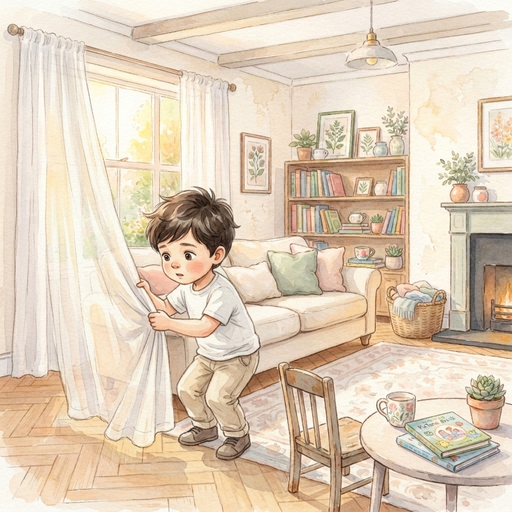
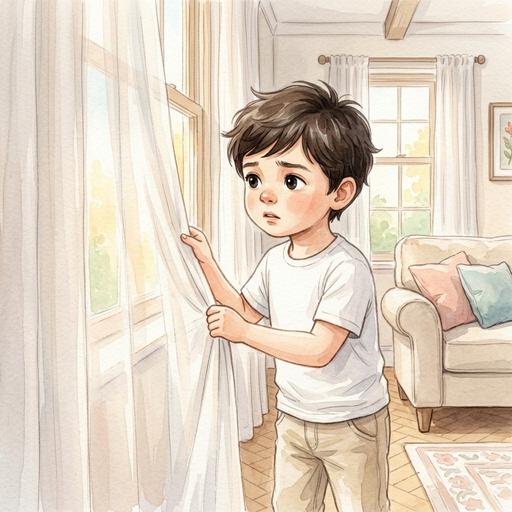
removing style anchor from database

diff --git a/helpers/illustrate_artworks.py b/helpers/illustrate_artworks.py
@@ -1,4 +1,4 @@
-"""Generate concept and style reference artworks for a storybook."""
+"""Generate concept reference artworks for a storybook."""
 
 from __future__ import annotations
 
@@ -20,15 +20,12 @@ from librito.logging import add_logging_arguments, configure_logging
 from librito.models import Concept, Storybook
 from librito.prompt_builder import (
     build_concept_artwork_prompt,
-    build_style_artwork_prompt,
     resolve_concept_artwork_constraints,
 )
 from librito.providers import build_image_client
 from librito.workspace import StoryWorkspace
 
 logger = logging.getLogger(__name__)
-
-STYLE_ARTWORK_FILENAME = "style-reference.png"
 
 
 def load_parameters(argv: Sequence[str] | None = None) -> Namespace:
@@ -48,11 +45,11 @@ def load_parameters(argv: Sequence[str] | None = None) -> Namespace:
     parser = ArgumentParser(
         description=dedent(
             """
-            Generate concept and style reference artworks for a storybook.
+            Generate concept reference artworks for a storybook.
 
             Artworks are a mandatory preliminary step before scene illustration.
             They provide concrete visual references (image anchors) for recurring
-            concepts and the global artistic style.
+            concepts.
 
             By default, this script generates reference artworks for all concepts
             defined in story.json and saves them under database/<story>/artworks/.
@@ -64,7 +61,6 @@ def load_parameters(argv: Sequence[str] | None = None) -> Namespace:
               python helpers/illustrate_artworks.py --story leo --provider gemini --model gemini-3.1-flash-image-preview
               python helpers/illustrate_artworks.py --story leo --provider mock --model mock
               python helpers/illustrate_artworks.py --story leo --provider mock --model mock --concepts "<LEO>" "<TOY_CAR>"
-              python helpers/illustrate_artworks.py --story leo --provider mock --model mock --style
             """
         ).strip(),
         formatter_class=RawDescriptionHelpFormatter,
@@ -108,11 +104,6 @@ def load_parameters(argv: Sequence[str] | None = None) -> Namespace:
         nargs="+",
         type=str,
         help="Optional concept tags to generate (e.g. '<LEO>' or 'LEO').",
-    )
-    parser.add_argument(
-        "--style",
-        action="store_true",
-        help="Also generate the global style reference artwork.",
     )
     parser.add_argument(
         "--subject-constraints",
@@ -227,7 +218,7 @@ def main(argv: Sequence[str] | None = None) -> int:
         image_size=arguments.resolution,
     )
 
-    total_items = len(target_concepts) + (1 if arguments.style else 0)
+    total_items = len(target_concepts)
     logger.info(
         "Starting generation for story '%s' with %d artwork(s).",
         workspace.story,
@@ -289,41 +280,6 @@ def main(argv: Sequence[str] | None = None) -> int:
             concept.tag,
             concept.image_path,
         )
-
-    if arguments.style:
-        completed_index += 1
-        if storybook.style_image_path.strip():
-            output_path = workspace.directory / storybook.style_image_path.strip()
-        else:
-            output_path = artworks_directory / STYLE_ARTWORK_FILENAME
-
-        if not arguments.force and output_path.exists():
-            logger.info(
-                "Item %d/%d: style artwork skipped (already exists at %s).",
-                completed_index,
-                total_items,
-                storybook.style_image_path or output_path.relative_to(workspace.directory).as_posix(),
-            )
-        else:
-            logger.info(
-                "Item %d/%d: generating style reference artwork...",
-                completed_index,
-                total_items,
-            )
-            prompt = build_style_artwork_prompt(storybook)
-            generated_image = client.generate_image(prompt)
-            output_path.parent.mkdir(parents=True, exist_ok=True)
-            generated_image.save(output_path)
-
-            storybook.style_image_path = output_path.relative_to(workspace.directory).as_posix()
-            save_storybook(storybook, story_path)
-
-            logger.info(
-                "Item %d/%d: style reference artwork saved to %s.",
-                completed_index,
-                total_items,
-                storybook.style_image_path,
-            )
 
     logger.info("Artwork generation complete.")
     logger.info("Done.")

diff --git a/librito/io.py b/librito/io.py
@@ -12,7 +12,6 @@ _STORYBOOK_REQUIRED_TOP_LEVEL_KEYS = {
     "title",
     "author",
     "style",
-    "style_image_path",
     "constraints",
     "subject_artworks_constraints",
     "environment_artworks_constraints",
@@ -143,7 +142,6 @@ def load_storybook(path: Path) -> Storybook:
         title=_require_string(payload["title"], "story.title"),
         author=_require_string(payload["author"], "story.author"),
         style=_require_string(payload["style"], "story.style"),
-        style_image_path=_require_string(payload["style_image_path"], "story.style_image_path"),
         constraints=_require_string(payload["constraints"], "story.constraints"),
         subject_artworks_constraints=subject_artworks_constraints,
         environment_artworks_constraints=environment_artworks_constraints,
@@ -169,7 +167,6 @@ def save_storybook(storybook: Storybook, path: Path) -> None:
             "title": storybook.title,
             "author": storybook.author,
             "style": storybook.style,
-            "style_image_path": storybook.style_image_path,
             "constraints": storybook.constraints,
             "subject_artworks_constraints": storybook.subject_artworks_constraints,
             "environment_artworks_constraints": storybook.environment_artworks_constraints,

diff --git a/librito/prompt_builder.py b/librito/prompt_builder.py
@@ -413,29 +413,3 @@ def build_concept_artwork_prompt(
         f"{instructions}\n\n"
         f"Constraints:\n{constraints.strip()}"
     )
-
-
-def build_style_artwork_prompt(
-        storybook: Storybook,
-) -> str:
-    """Build the prompt to generate a style reference artwork.
-
-    Parameters
-    ----------
-    storybook:
-        Storybook containing the global style definition.
-
-    Returns
-    -------
-    str
-        Prompt string for generating the style artwork.
-    """
-
-    style_constraints = _RESOURCE_DIRECTORY.joinpath("style_artwork_constraints.txt").read_text(encoding="utf-8").strip()
-    return (
-        f"Style: {storybook.style.strip()}\n\n"
-        "Instructions:\n"
-        "Generate a visual style reference artwork that showcases the artistic medium, textures, color palette, "
-        "brushwork, lighting, and overall aesthetic defined above.\n\n"
-        f"Constraints:\n{style_constraints}"
-    )

diff --git a/librito/models.py b/librito/models.py
@@ -157,9 +157,6 @@ class Storybook:
         Structured non-scene book parts such as covers and front matter.
     scenes:
         Ordered story scenes to illustrate.
-    style_image_path:
-        Relative path to the style reference artwork within the story
-        directory. Empty until the artwork-generation stage fills it.
     """
 
     title: str
@@ -171,7 +168,6 @@ class Storybook:
     constraints: str = field(default="")
     subject_artworks_constraints: str = field(default="")
     environment_artworks_constraints: str = field(default="")
-    style_image_path: str = field(default="")
 
     @property
     def concept_map(self) -> dict[str, str]:

diff --git a/librito/workspace.py b/librito/workspace.py
@@ -35,7 +35,7 @@ class StoryWorkspace:
     illustrations_dir:
         Canonical illustration output directory.
     artworks_dir:
-        Canonical artwork output directory for concept and style references.
+        Canonical artwork output directory for concept references.
     """
 
     story: str

diff --git a/.agents/skills/artwork-generation/SKILL.md b/.agents/skills/artwork-generation/SKILL.md
@@ -8,7 +8,6 @@ Use this skill to define the visual style and generate reference artworks for a 
 This skill defines the creative work of visual grounding:
 
 - choosing or refining one global visual style,
-- generating a style reference artwork,
 - generating one reference artwork per recurring concept,
 - ensuring artworks faithfully represent their concept descriptions in the chosen style.
 
@@ -30,14 +29,13 @@ Workflow
 2. Inspect any existing style definition and artworks.
 3. Determine whether the style and artworks should be created, kept, or revised.
 4. Define or refine one global visual style that can apply coherently across the whole story.
-5. Generate a style reference artwork that embodies the chosen visual direction.
-6. For each concept, generate a reference artwork that represents it faithfully in the chosen style.
-7. Store artworks in the canonical artworks directory of the story workspace.
-8. Record artwork paths in the storybook artifact (concept image paths and style image path).
-9. Review generated artworks for visual quality and consistency with descriptions.
-10. Regenerate or refine artworks that do not meet quality expectations.
-11. Run the relevant repository validators and consistency checks.
-12. Repair weak or invalid artwork state before declaring the work complete.
+5. For each concept, generate a reference artwork that represents it faithfully in the chosen style.
+6. Store artworks in the canonical artworks directory of the story workspace.
+7. Record artwork paths in the storybook artifact (concept image paths).
+8. Review generated artworks for visual quality and consistency with descriptions.
+9. Regenerate or refine artworks that do not meet quality expectations.
+10. Run the relevant repository validators and consistency checks.
+11. Repair weak or invalid artwork state before declaring the work complete.
 
 Style
 -----
@@ -49,14 +47,12 @@ The global style should define a coherent visual direction for the whole story.
 - Do not use style to encode scene-specific actions or story events.
 - Prefer one strong visual direction over a vague list of aesthetics.
 
-The style reference artwork should visually embody the chosen direction so that it can serve as a concrete example during downstream generation.
-
 Artworks
 --------
 
-Concept and style artworks are a **mandatory preliminary step** before scene illustration. The illustration pipeline enforces that all concepts referenced in a scene prompt possess generated reference artworks on disk.
+Concept artworks are a **mandatory preliminary step** before scene illustration. The illustration pipeline enforces that all concepts referenced in a scene prompt possess generated reference artworks on disk.
 
-Use the `helpers/illustrate_artworks.py` script to generate concept and style artworks deterministically. The helper supports separate constraint overrides via `--subject-constraints` and `--environment-constraints`.
+Use the `helpers/illustrate_artworks.py` script to generate concept artworks deterministically. The helper supports separate constraint overrides via `--subject-constraints` and `--environment-constraints`.
 
 Each concept artwork should:
 
@@ -76,7 +72,6 @@ Before declaring artwork generation complete, verify through repository tools an
 
 * the canonical storybook artifact respects the repository schema,
 * the global style is defined and non-empty,
-* a style reference artwork exists at the recorded path,
 * every concept has a reference artwork at its recorded path,
 * artwork paths are valid relative paths within the story workspace,
 * the visual style is coherent across the generated artworks.

diff --git a/docs/examples/leo/leo.rst b/docs/examples/leo/leo.rst
@@ -65,12 +65,6 @@ Nous optons pour une douceur intemporelle : l'aquarelle jeunesse, baignée de lu
 
     *Children's watercolor storybook illustration, soft expressive brushwork, warm natural light, gentle pastel colors, cozy home interiors, and charming storybook aesthetics.*
 
-Cette intention visuelle prend corps avec notre image de référence :
-
-.. image:: artworks/style-reference.png
-   :alt: Référence du style aquarelle
-   :width: 70%
-   :align: center
 
 Les sujets
 ^^^^^^^^^^
@@ -236,7 +230,7 @@ Le livre se referme sur une atmosphère paisible, illuminée par le soleil décl
 
 **Prompt de quatrième de couverture :**
 
-    A peaceful and sun-drenched family living room with afternoon light streaming through sheer curtains, illuminating an inviting sofa with plush cushions, a warm polished wooden floor, house plants on shelves, and a gentle tranquil home ambiance. In the upper left of the image, the teaser text is clearly and beautifully written in storybook lettering: "Une histoire douce et lumineuse autour d'un petit garçon et de sa voiture rouge préférée."
+    A peaceful and sun-drenched view of the <LIVING_ROOM>, with afternoon light streaming through the sheer curtains, illuminating the sofa and warm wooden floor, with house plants on shelves and a gentle tranquil home ambiance. Resting on the floor near the sofa is the <TOY_CAR>. In the upper left of the image, the teaser text is clearly and beautifully written in storybook lettering: \"Une histoire douce et lumineuse autour d'un petit garçon et de sa voiture rouge préférée.
 
 .. image:: illustrations/back-cover.png
    :alt: Quatrième de couverture

diff --git a/.agents/skills/illustration-generation/SKILL.md b/.agents/skills/illustration-generation/SKILL.md
@@ -5,7 +5,7 @@ description: Generate final illustrations by assembling scene prompts, image anc
 
 Use this skill to generate and refine the final illustrations of a storybook.
 
-This is the **illustrator's job**: given the illustration specs (scene prompts from the prompt-design skill) and the visual references (concept artworks and style artwork from the artwork-generation skill), produce the actual illustrations for every scene and illustrated book part.
+This is the **illustrator's job**: given the illustration specs (scene prompts from the prompt-design skill) and the visual references (concept artworks from the artwork-generation skill), produce the actual illustrations for every scene and illustrated book part.
 
 This skill defines the execution work of illustration:
 
@@ -33,9 +33,8 @@ Workflow
 4. For each target (scene or illustrated book part):
    a. Assemble the render prompt using the prompt-building pipeline (resolve anchors, apply style and constraints).
    b. Collect the relevant concept artworks (image anchors) for concepts present in the scene.
-   c. Collect the style reference artwork.
-   d. Generate the illustration using the assembled prompt and image references.
-   e. Record the generated image path in the storybook artifact.
+   c. Generate the illustration using the assembled prompt and image references.
+   d. Record the generated image path in the storybook artifact.
 5. After generating all illustrations, review them for:
    * visual quality and clarity,
    * faithfulness to the scene prompts,

diff --git a/docs/process.rst b/docs/process.rst
@@ -30,7 +30,7 @@ Pour qu'un livre illustré soit crédible, les personnages, les animaux, les obj
 Avant de lancer la production des illustrations du livre, l'établissement de la direction artistique et des repères visuels constitue un préalable indispensable :
 
 * **Choix du style global** : Définition d'un univers plastique (par exemple une gouache douce sur papier texturé, des traits vifs au crayon de couleur ou des aplats modernes).
-* **Génération des artworks** : Pour chaque concept récurrent identifié, une illustration de référence isolée (un *artwork*) est générée conformément au style retenu, complétée par une image de référence pour le style global.
+* **Génération des artworks** : Pour chaque concept récurrent identifié, une illustration de référence isolée (un *artwork*) est générée conformément au style retenu.
 * Ces artworks servent d'ancres visuelles enregistrées dans l'espace de travail : ils constituent la référence graphique concrète requise pour aborder l'étape d'illustration.
 
 4. Conception des prompts d'illustration

diff --git a/.agents/skills/database-management/SKILL.md b/.agents/skills/database-management/SKILL.md
@@ -35,7 +35,7 @@ Interpret these paths as follows:
 - `units.json`: units artifact
 - `story.epub`: assembled book
 - `illustrations/`: generated scene and book-part illustrations
-- `artworks/`: concept reference artworks and style reference artwork
+- `artworks/`: concept reference artworks
 
 Do not invent alternate filenames for these canonical artifacts.
 
@@ -66,7 +66,7 @@ Treat the naming convention as strict.
 - Do not store the main book outside `story.epub`.
 - Do not place story illustrations outside `illustrations/` unless another tool explicitly requires a temporary
   location.
-- Do not place concept or style artworks outside `artworks/` unless another tool explicitly requires a temporary
+- Do not place concept artworks outside `artworks/` unless another tool explicitly requires a temporary
   location.
 
 Additional files may exist in the story folder, but they must not replace or shadow the canonical artifacts.

diff --git a/docs/getting_started.rst b/docs/getting_started.rst
@@ -66,11 +66,11 @@ Voici le déroulement typique pour transformer une histoire brute en un livre il
 
 4. **Génération des artworks de référence**
 
-   Préalable indispensable à l'illustration des scènes, la création des artworks génère les images de référence de chaque concept récurrent ainsi que du style global :
+   Préalable indispensable à l'illustration des scènes, la création des artworks génère les images de référence de chaque concept récurrent :
 
    .. code-block:: bash
 
-      python helpers/illustrate_artworks.py --story mon_histoire --provider gemini --model gemini-3.1-flash-image-preview --style
+      python helpers/illustrate_artworks.py --story mon_histoire --provider gemini --model gemini-3.1-flash-image-preview
 
    Les images sont enregistrées dans le dossier ``database/mon_histoire/artworks/`` et servent de points d'ancrage visuels pour garantir la continuité graphique.
 

diff --git a/docs/storybook.rst b/docs/storybook.rst
@@ -20,7 +20,6 @@ Pour garantir que l'ensemble des illustrations du livre présente une atmosphèr
 
 * **Description du style** : Un paragraphe décrivant la technique graphique (aquarelle, linogravure, gouache, dessin au pastel, etc.), la palette de couleurs, le traitement de la lumière et l'ambiance générale.
 * **Contraintes** : Des consignes spécifiques éventuelles pour orienter ou restreindre certains aspects visuels (par exemple l'absence de texte incrusté ou la simplification des arrière-plans).
-* **Artwork de style** : Une image de référence illustrant le style choisi peut être associée au storybook afin de guider les étapes de génération visuelle.
 
 Concepts récurrents
 -------------------
